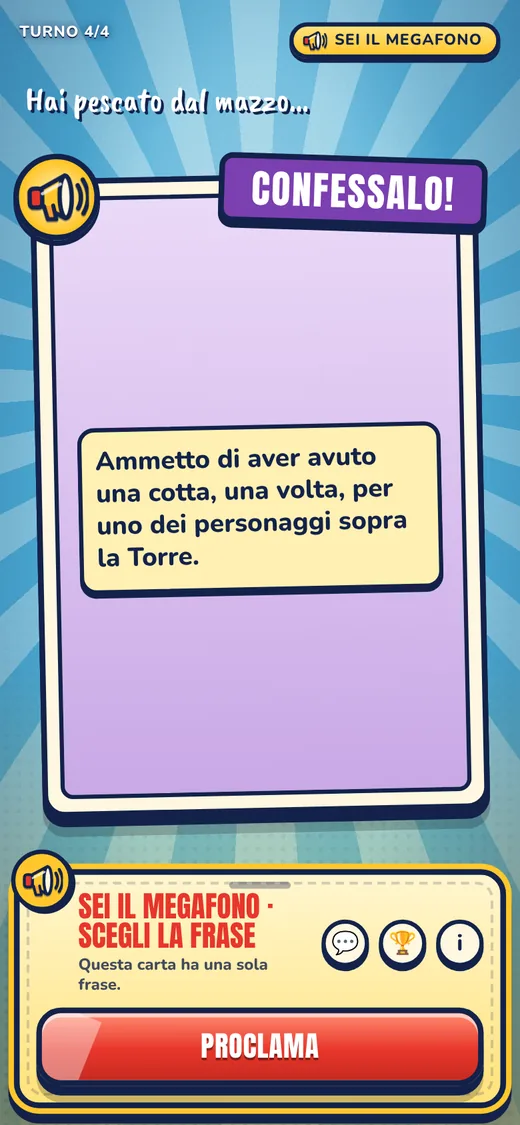
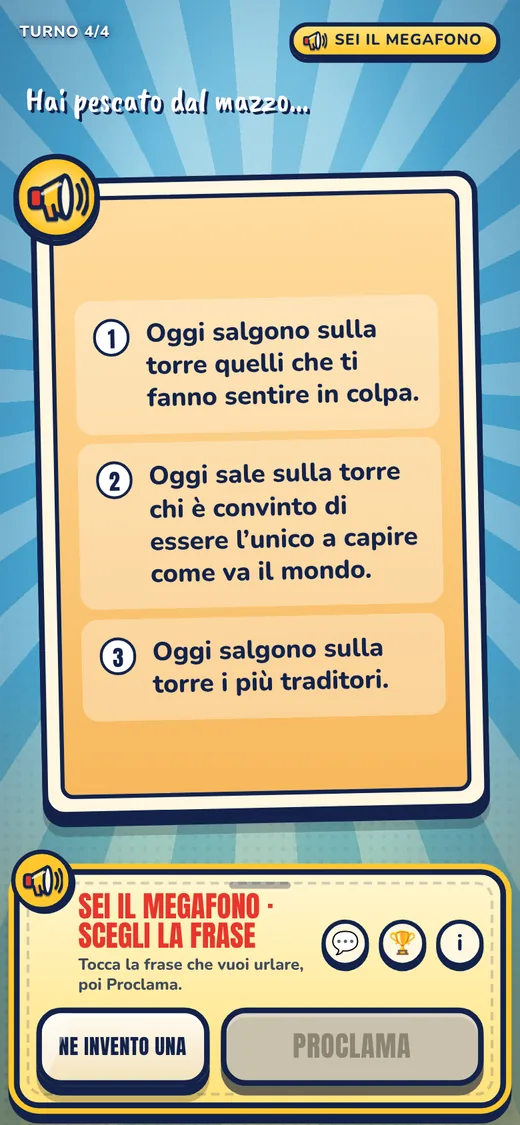
Tutorial: schermata «frase» con le frasi proposte; «segnalino» con i tre gettoni ingranditi
Claude-Session: https://claude.ai/code/session_01RZhXLwz9ci4u3vmJ9FrJGt

diff --git a/apps/web/src/components/Intro.tsx b/apps/web/src/components/Intro.tsx
@@ -4,6 +4,11 @@ import { Pt } from "./Pt.tsx";
 import { t, ts } from "../lib/testi.ts";
 import type { TestoKey } from "../lib/testi.ts";
 import { MegaIcon } from "./MegaIcon.tsx";
+import type { LuiSpec } from "@gdt/game-engine";
+import { luiTok } from "../scene/draw.ts";
+import { luiLabel } from "../lib/lui.ts";
+
+const TOKS: LuiSpec[] = [{ slot: "cade", k: 0, pts: 4, effect: "cade" }, { slot: "noncade", k: 0, pts: 2, effect: "noncade" }, { slot: "nulli", k: 0, pts: 0, effect: "nulli" }];
 
 const Dots = ({ i, n }: { i: number; n: number }) => <span className="dts">{Array.from({ length: n }, (_, k) => <i key={k} className={k === i ? "on" : ""} />)}</span>;
 
@@ -12,7 +17,7 @@ const SLIDES = [
   { k: "s0", img: "/giocatori/torre.webp", tower: true },
   { k: "s1", img: "/tutorial/frase.webp" },
   { k: "s2", img: "/tutorial/mano.webp" },
-  { k: "s3", img: "/tutorial/segnalino.webp" },
+  { k: "s3", img: "/tutorial/segnalino.webp", toks: true },
   { k: "s4", img: "/tutorial/voto.webp" },
   { k: "s5", img: "/tutorial/punti.webp" },
 ] as const;
@@ -26,6 +31,7 @@ export function IntroSlides({ onClose }: { onClose: () => void }) {
       <div className="isl-top"><Dots i={i} n={SLIDES.length} /><a className="skp" role="button" tabIndex={0} onClick={onClose} onKeyDown={(e) => { if (e.key === "Enter") onClose(); }} data-testid="intro-skip">{t("intro.salta")}</a></div>
       <h2 className="isl-h sm">{t(`intro.${sl.k}.t` as TestoKey)}</h2>
       <div className={`isl-shot${"tower" in sl ? " tower" : ""}`}><img src={sl.img} alt="" /></div>
+      {"toks" in sl && <div className="isl-toks" data-testid="intro-toks">{TOKS.map((sp) => <span key={sp.slot}><i dangerouslySetInnerHTML={{ __html: luiTok(sp, 64) }} /><b>{luiLabel(sp)}</b></span>)}</div>}
       <div className="pp isl-card"><p>{t(`intro.${sl.k}.x` as TestoKey)}</p></div>
       <div className="isl-ba"><Btn onClick={() => (last ? onClose() : setI(i + 1))} testId="intro-next">{last ? t("intro.fine") : t("intro.avanti")}</Btn></div>
     </div>

diff --git a/apps/web/src/styles/app.css b/apps/web/src/styles/app.css
@@ -948,6 +948,10 @@ body{background:radial-gradient(ellipse at 50% 40%,#2a4a9a 0,#0c1736 75%)}
 .isl-card{margin:12px 16px 0;flex:none}.isl-card b{display:block;font:400 20px/1.1 Anton;text-transform:uppercase;color:#e8362b;margin-bottom:4px}.isl-card p{font:700 16px/1.3 Nunito;text-align:center;margin:0}.isl-card u{text-decoration:none;background:#ffe27a;padding:0 3px;border-radius:3px}
 .isl-shot{flex:1;min-height:0;margin:10px 0 0;display:flex;justify-content:center}
 .isl-shot img{height:100%;width:auto;max-width:78%;object-fit:contain;border:4px solid #13224a;border-radius:20px;box-shadow:0 7px 0 #13224a;background:#fff}
+.isl-toks{display:flex;justify-content:center;gap:10px;margin:10px 16px 0;flex:none}
+.isl-toks span{flex:1;display:flex;flex-direction:column;align-items:center;gap:2px;background:#fff7e0;border:3px solid #13224a;border-radius:14px;box-shadow:0 4px 0 #13224a;padding:6px 4px}
+.isl-toks i{display:block;width:64px;height:64px}
+.isl-toks b{font:400 14px/1 Anton;text-transform:uppercase;text-align:center}
 .isl-shot.tower img{border:0;box-shadow:none;background:none;filter:drop-shadow(0 8px 0 #13224a55);max-width:60%}
 .isl-steps{margin:14px 16px 0;display:grid;gap:11px;flex:none}.isl-steps.tight{gap:8px;margin-top:10px}
 .isl-steps .st{display:flex;gap:10px;align-items:flex-start}.isl-steps .st b{display:block;font:400 17px/1.05 Anton;text-transform:uppercase}.isl-steps .st p{font:700 12.5px/1.3 Nunito;margin:2px 0 0}.isl-steps .st em{font-style:normal;color:#e8362b;font-weight:800}
